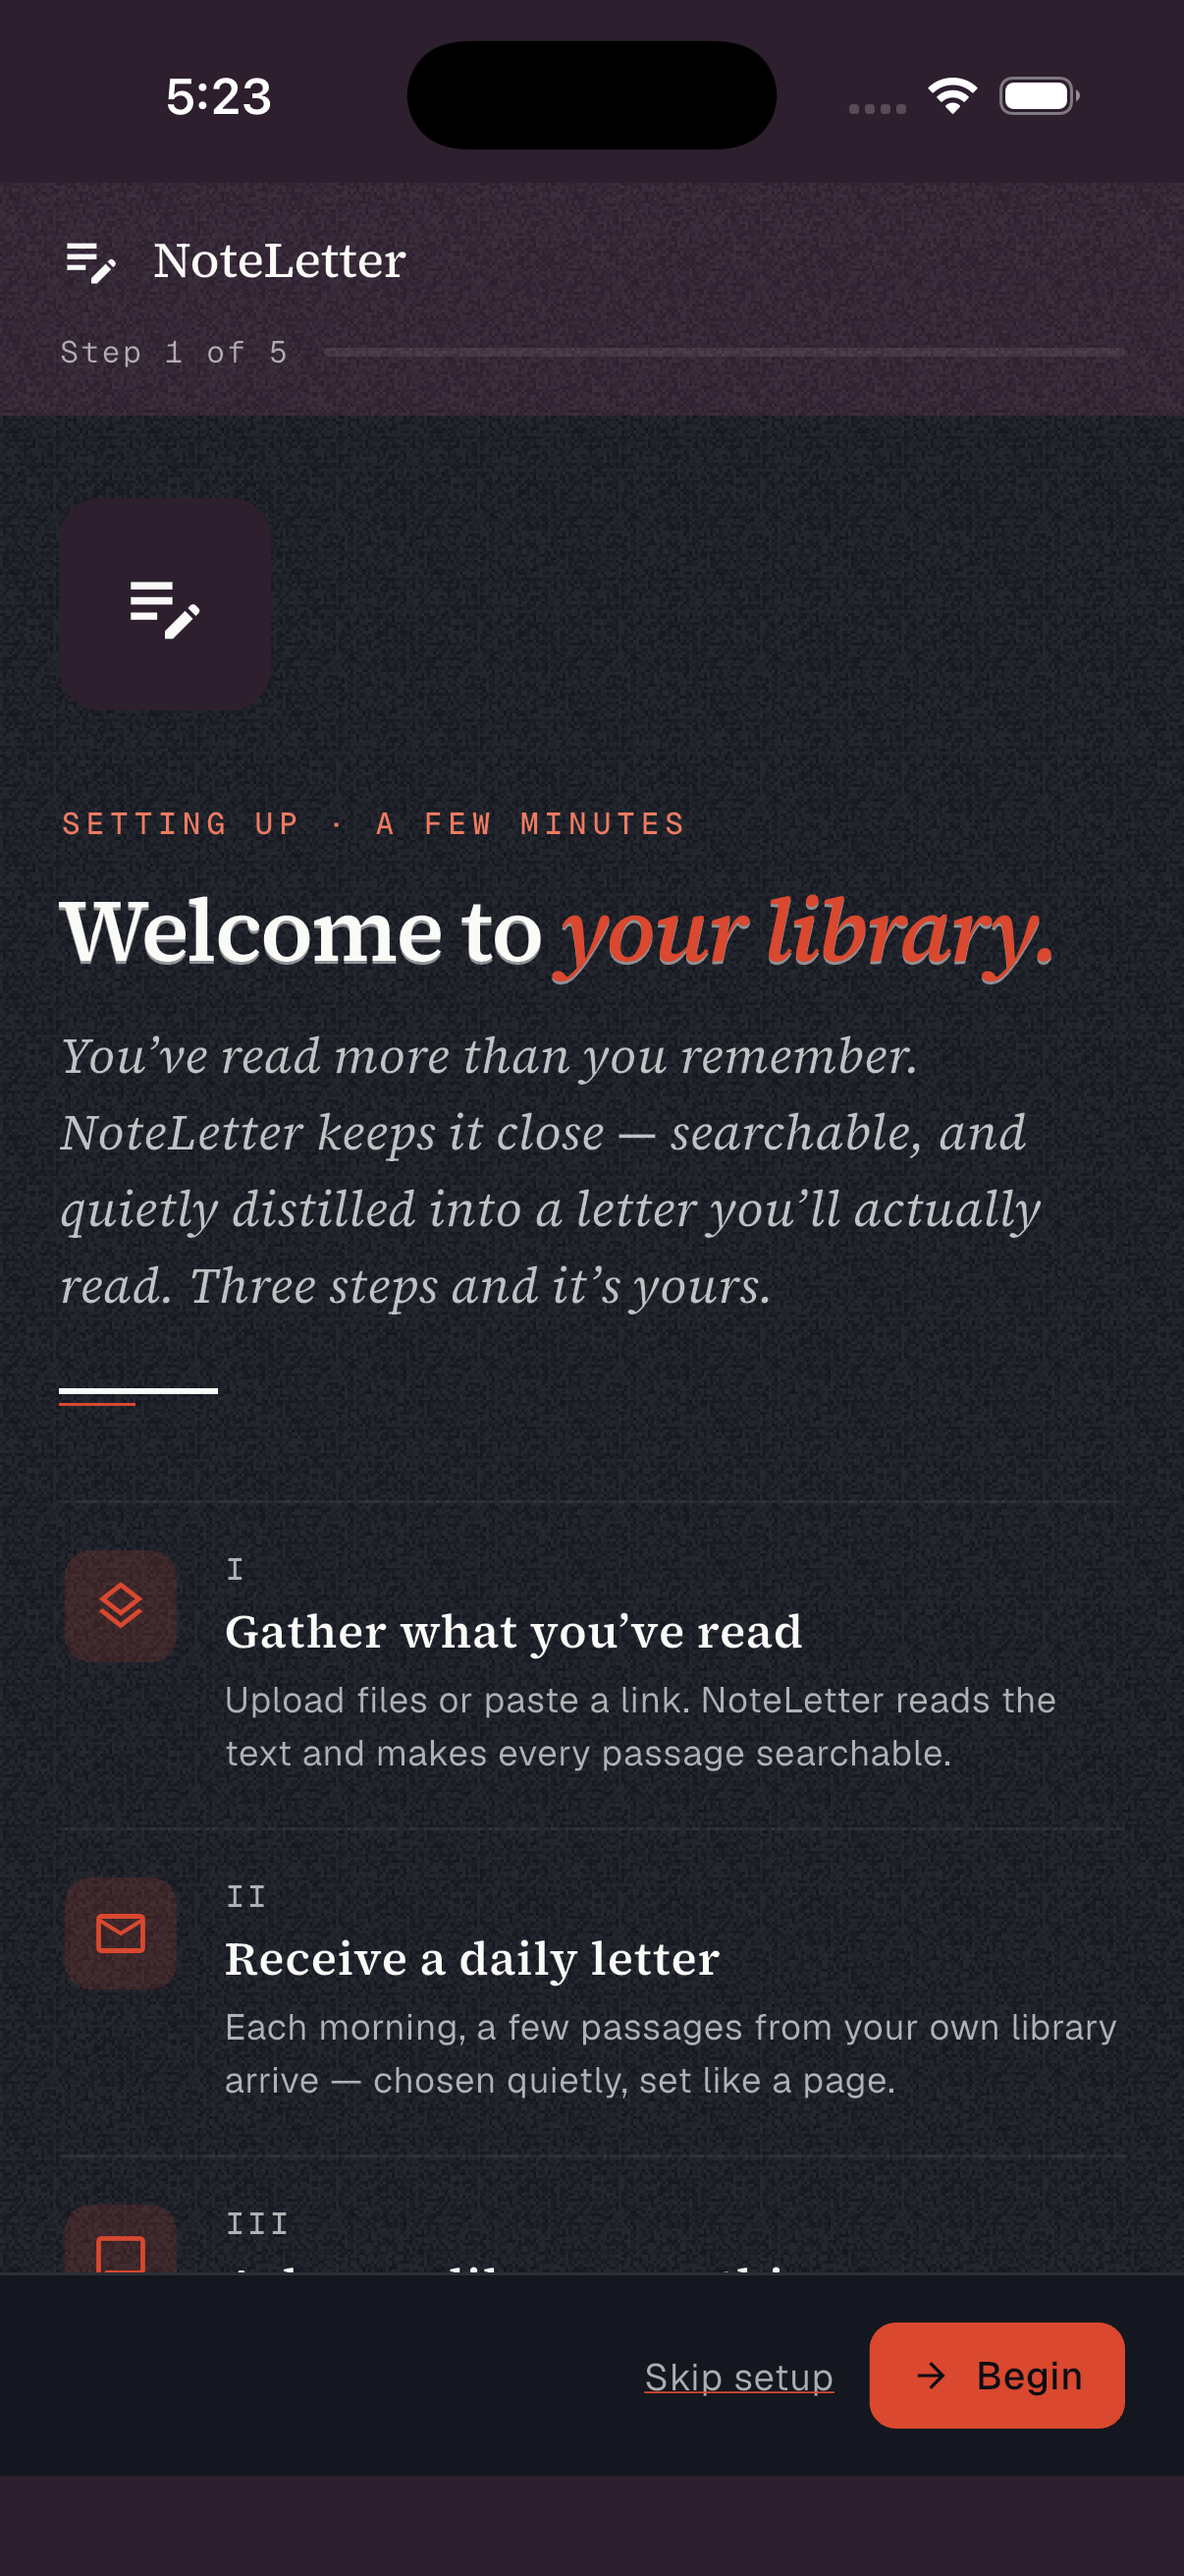
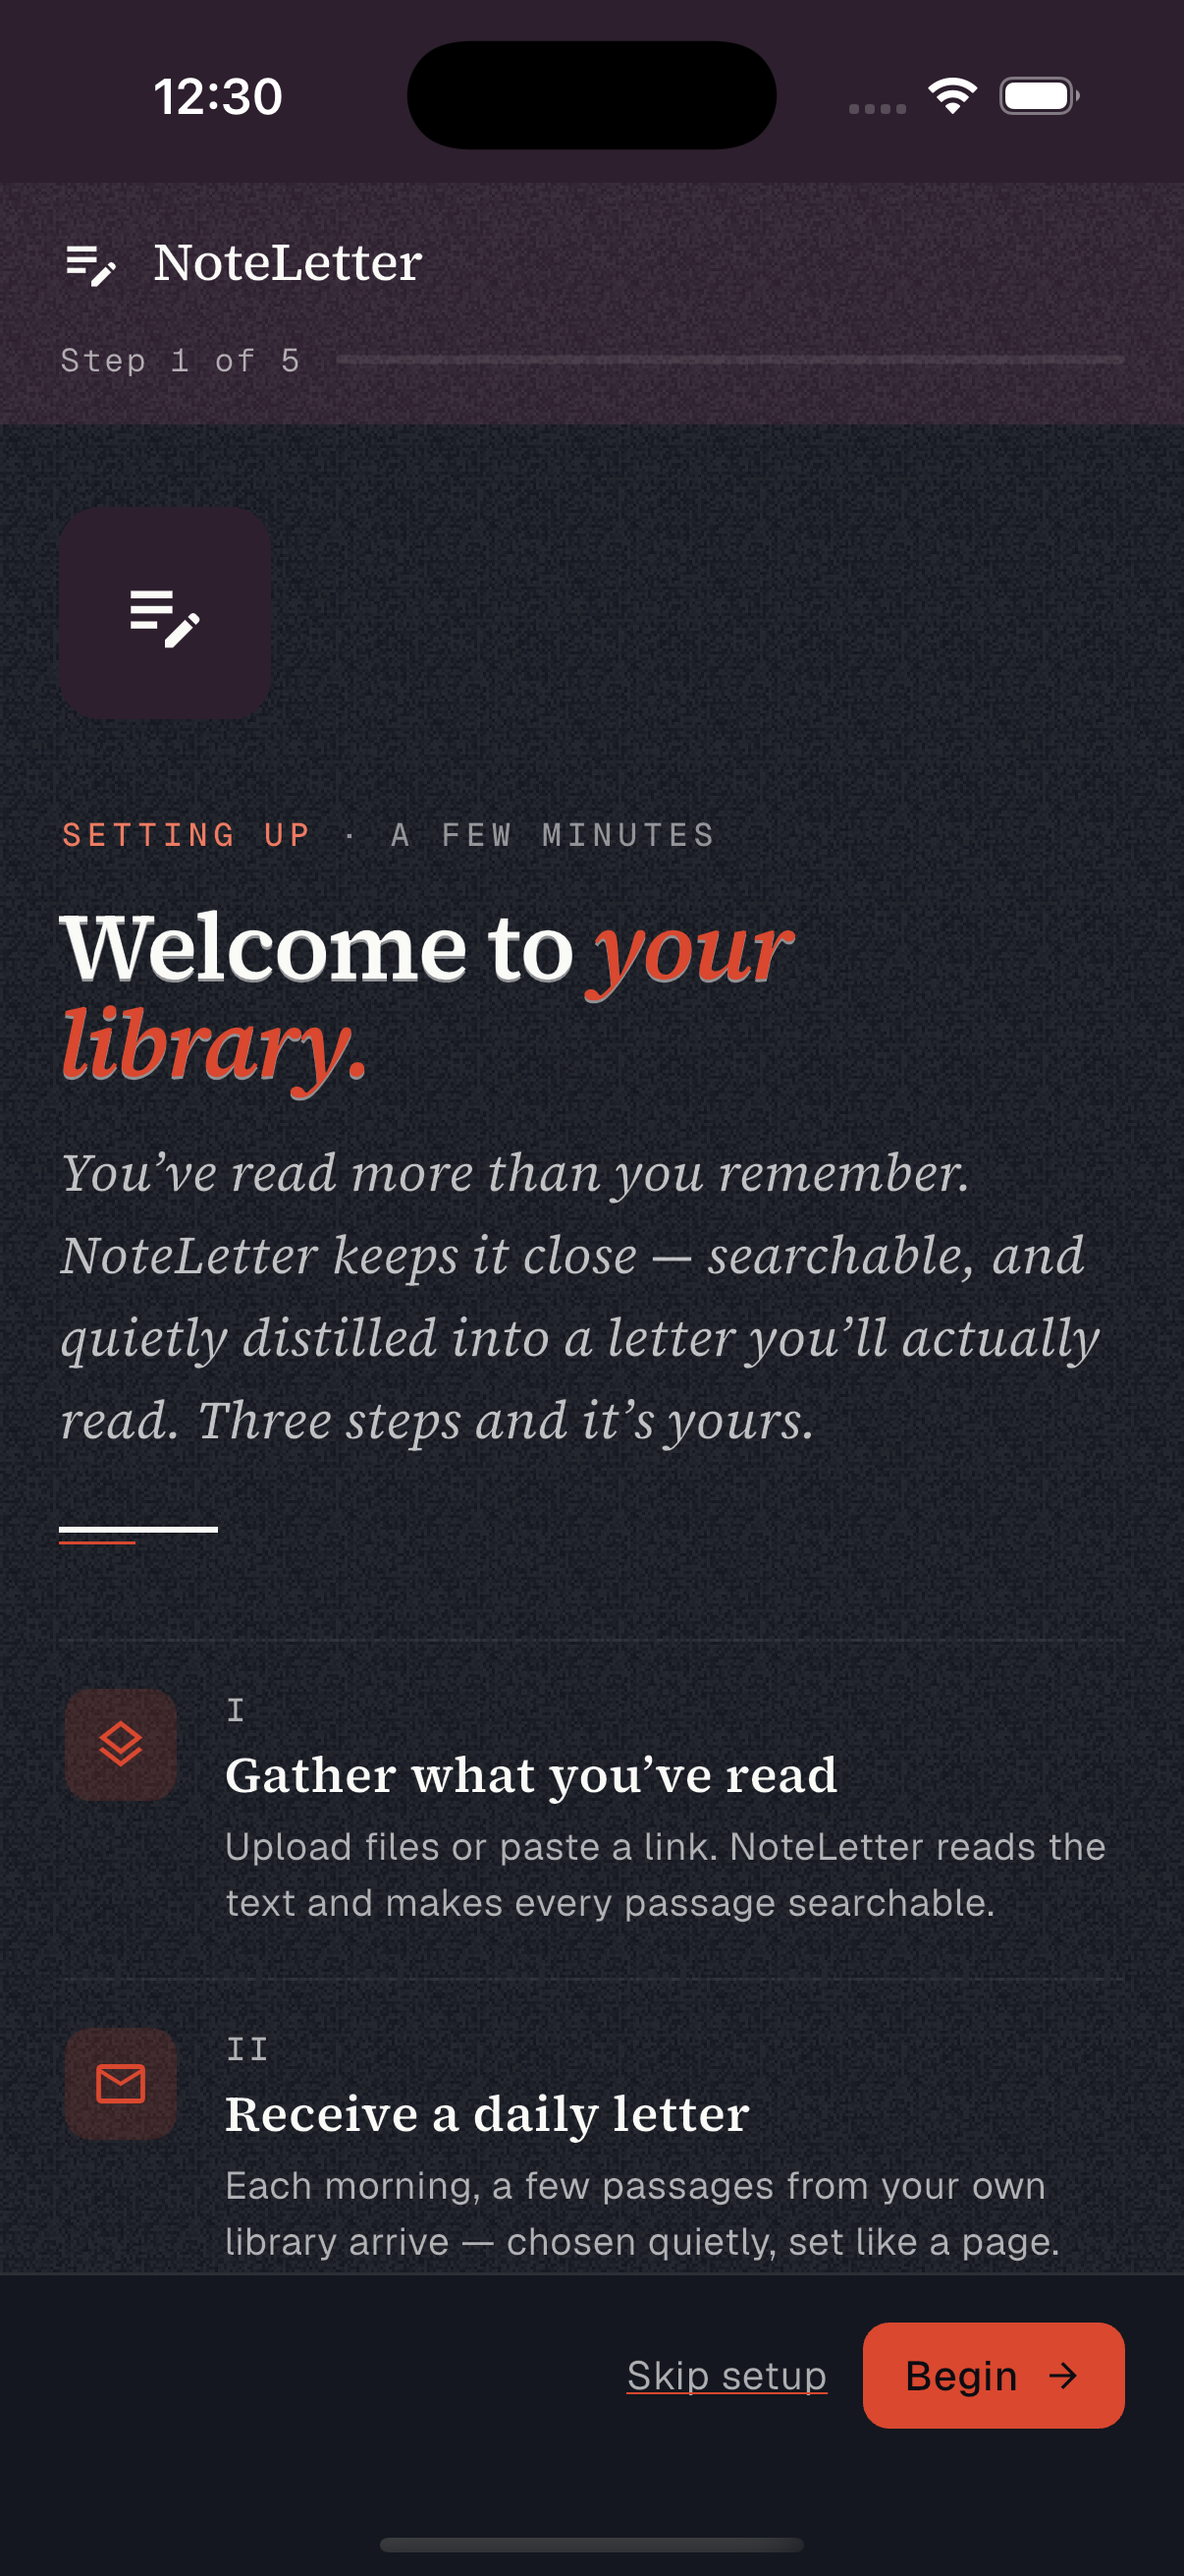
Onboarding: on a phone the footer owns the home-indicator inset (F-34/F-37 pass)
Pair read beside the web phone frame (web frame 2026-09-18), light and dark.
The compact rail (brand, `Step 1 of 5` and its bar, the grain over plum), the
folio with `a few minutes` as its quiet aside, the italic-accent title, the
standfirst, the ruled numbered moves and the pinned footer all compose as the
reference's do. One drift fixed: the wizard's SafeArea left a strip of plum
chrome under the footer on a phone, where the reference's footer ground runs
to the bottom edge. SafeArea now leaves the bottom to the footer on a compact
width, and the footer pads by the inset on --bg.

Not changed, reported: the reference draws this head with its own `.ob-*`
classes — title 27 / standfirst 17 at phone width and a `.ob-rule` (38px
--ink-300 dash + 12px accent tick, side by side) — where this client uses the
kit's §2.1 Chapter opening (title 32 per the recorded deviation, the two-bar
chapter rule). onboarding.md §Composition says the wizard introduces no new
primitives, so the web's local rule is the spec/web disagreement, not ours.
The progress track draws --chrome-border (.10) where web uses a literal
rgba(250,250,247,.2) with no token.

Gates: analyze clean (2 pre-existing infos) · contract+kit 842 passed (pin
excluded by policy) · queue lint 0 · pairs STALE-PAIR 21
Pin stays 4.4.0.

Claude-Session: https://claude.ai/code/session_01WEYcyK1SsWKiesC6Pgdho6

diff --git a/lib/pages/onboarding/wizard.dart b/lib/pages/onboarding/wizard.dart
@@ -306,7 +306,11 @@ class _OnboardingWizardState extends State<OnboardingWizard> {
       value: SystemUiOverlayStyle.light,
       child: Material(
         color: t.chrome,
+        // On a phone the footer is the bottom of the screen, so the home
+        // indicator's inset is ITS ground (--bg), not a strip of chrome under
+        // it: SafeArea leaves the bottom to [_Footer], which pads by it.
         child: SafeArea(
+          bottom: !compact,
           child: compact
               ? Column(children: [rail, main])
               : Row(children: [rail, main]),
@@ -674,10 +678,13 @@ class _Footer extends StatelessWidget {
   @override
   Widget build(BuildContext context) {
     final t = Tokens.of(context);
+    final gutter = compact ? AppSpacing.frameGutterCompact : 48.0;
     return Container(
-      padding: EdgeInsets.symmetric(
-        horizontal: compact ? AppSpacing.frameGutterCompact : 48,
-        vertical: AppSpacing.s4,
+      padding: EdgeInsets.fromLTRB(
+        gutter,
+        AppSpacing.s4,
+        gutter,
+        AppSpacing.s4 + (compact ? MediaQuery.paddingOf(context).bottom : 0),
       ),
       decoration: BoxDecoration(
         color: t.bg,
